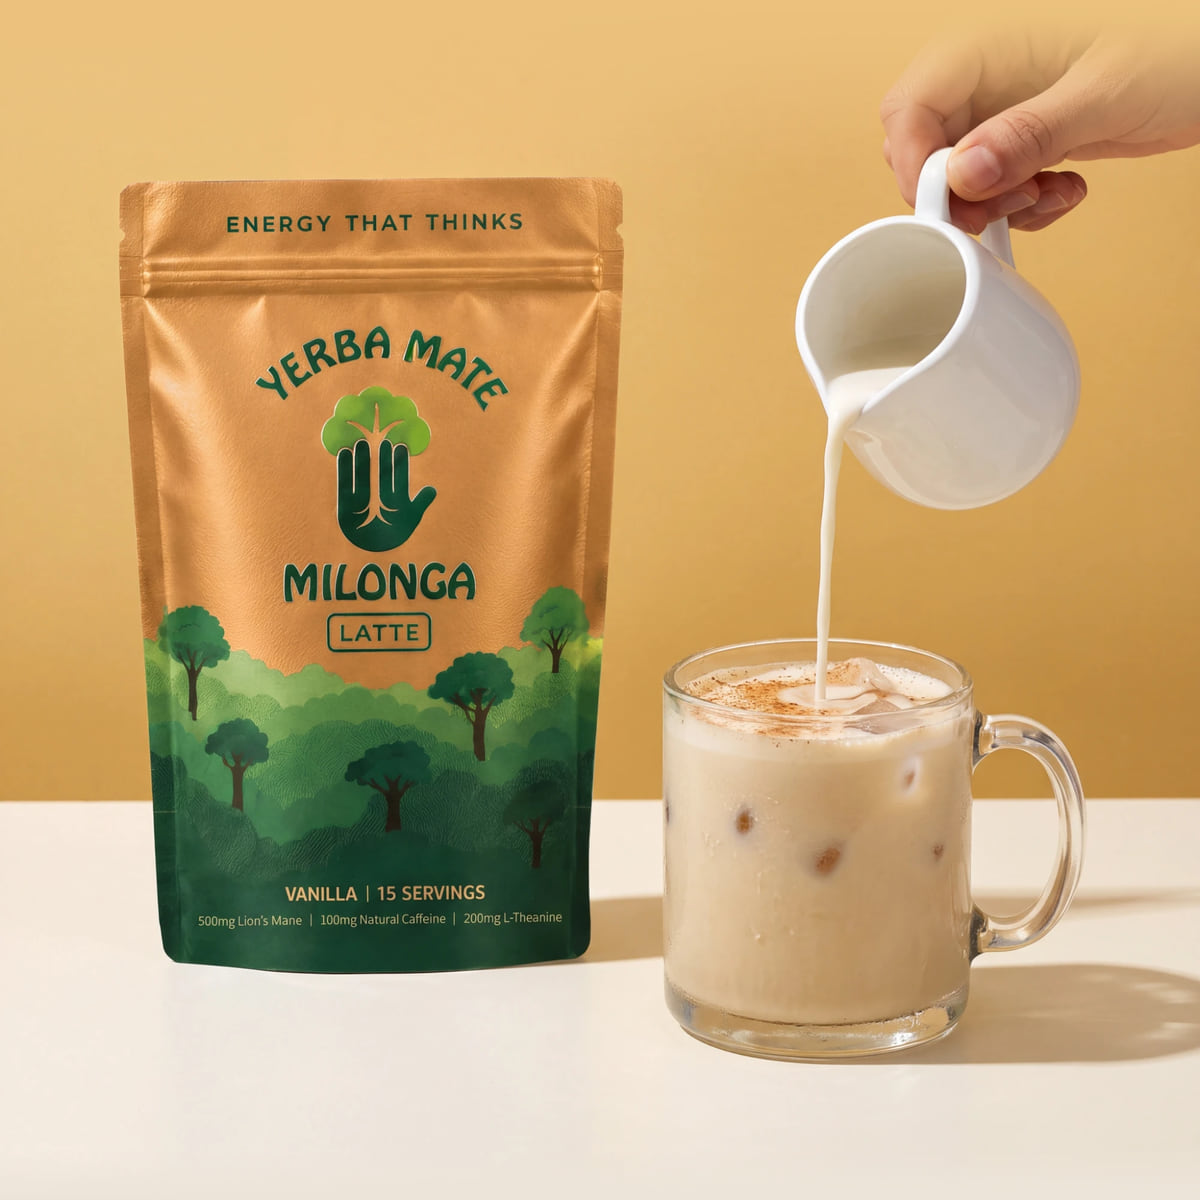
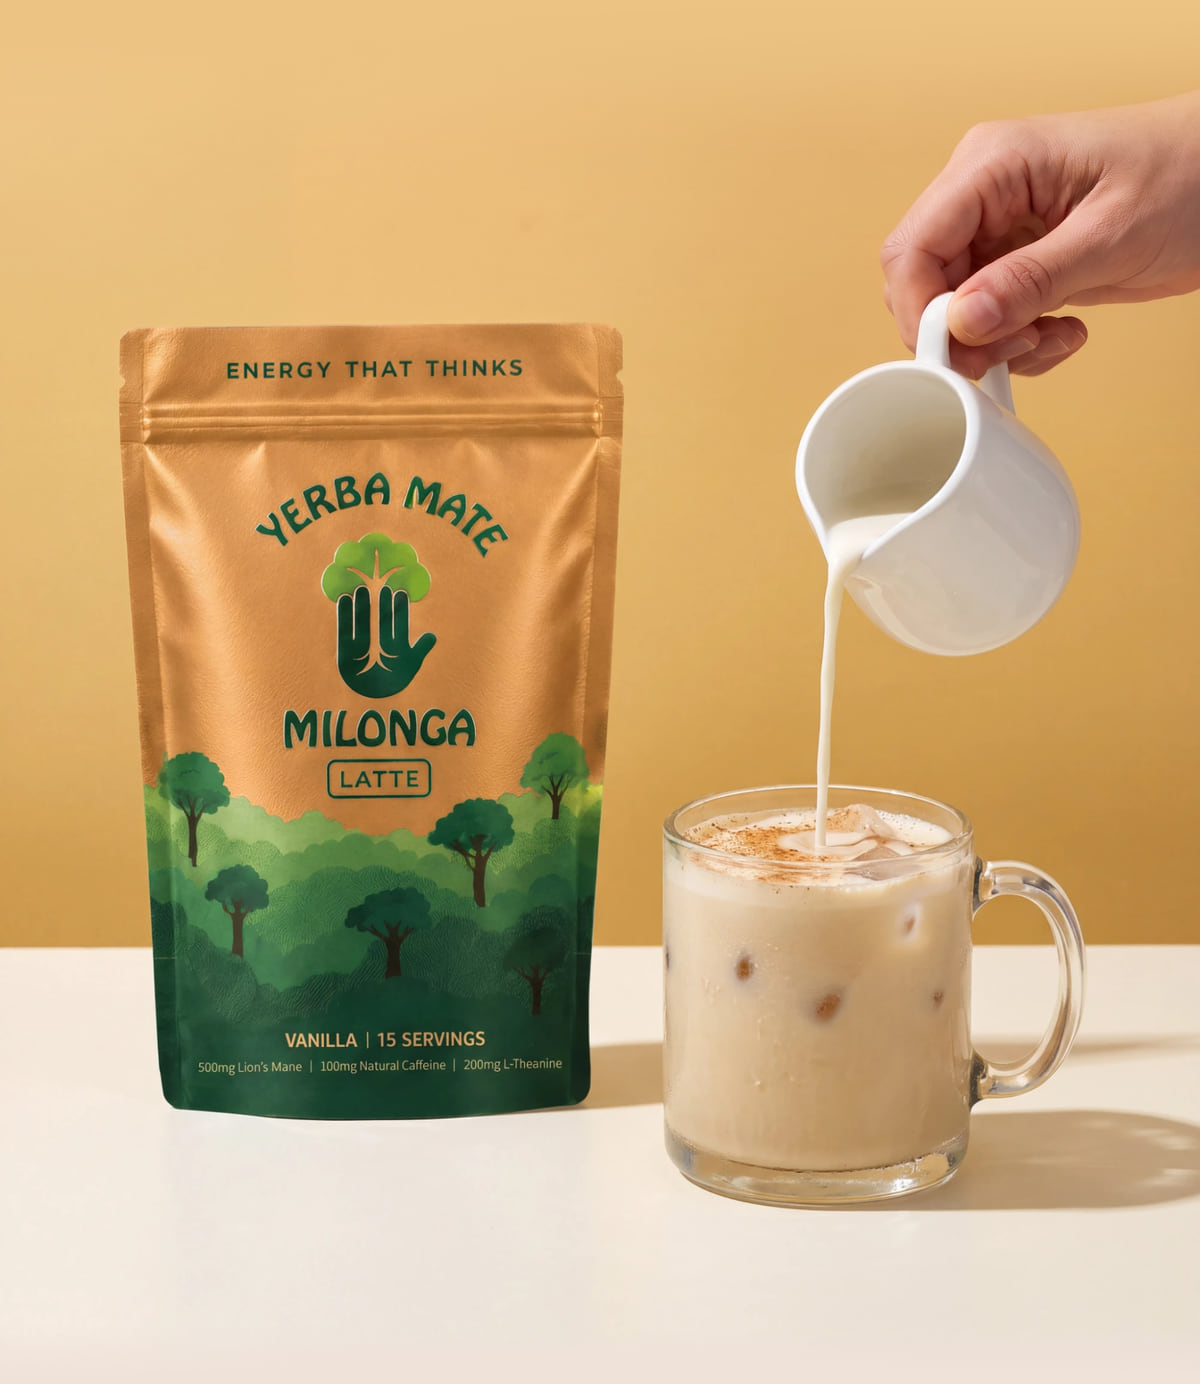
Cart E1: whole hand in the pour photo, one continuous gold section
The pour shot is outpainted upward so the full hand shows; the original photo is
pasted back over everything but the hand and jug so the pouch's print stays exact.

Claude-Session: https://claude.ai/code/session_01NhEtXPnfeCJfN73SqBkUZ5

diff --git a/email-ds/refine/cart-e1.html b/email-ds/refine/cart-e1.html
@@ -64,8 +64,8 @@ body{margin:0;background:#FFFFFF;padding:28px 0 60px}
     .bg-page { background-color:#F0EFDF !important; }
     .bg-hero-top { background-color:#F6DCAF !important; }
     .bg-hero { background-color:#D5A262 !important; }
-    .bg-wall { background-color:#EBC17D !important; }
-    .bg-table { background-color:#EDE4D9 !important; }
+    .bg-wall { background-color:#ECC383 !important; }
+    .bg-table { background-color:#EEE2D9 !important; }
   }
 </style>
 <table role="presentation" width="100%" cellpadding="0" cellspacing="0" border="0" bgcolor="#FFFFFF" class="bg-white" style="background-color:#FFFFFF;">
@@ -146,8 +146,8 @@ body{margin:0;background:#FFFFFF;padding:28px 0 60px}
     .bg-page { background-color:#F0EFDF !important; }
     .bg-hero-top { background-color:#F6DCAF !important; }
     .bg-hero { background-color:#D5A262 !important; }
-    .bg-wall { background-color:#EBC17D !important; }
-    .bg-table { background-color:#EDE4D9 !important; }
+    .bg-wall { background-color:#ECC383 !important; }
+    .bg-table { background-color:#EEE2D9 !important; }
   }
 </style>
 <table role="presentation" width="100%" cellpadding="0" cellspacing="0" border="0" bgcolor="#FFFFFF" class="bg-white" style="background-color:#FFFFFF;">
@@ -215,12 +215,12 @@ body{margin:0;background:#FFFFFF;padding:28px 0 60px}
 <!-- ── 3 · ONE CUP, EVERYTHING YOU NEED · v2 (Bernat, 2026-11-18): the title and the benefits ABOVE the hand
      pouring the milk and the bag, on the photo's own gold wall so text and photo read as one section
      (beige ingredient discs, which show on gold); the photo's table fades into the cream below ── -->
-<tr><td class="pad bg-wall" align="center" bgcolor="#EBC17D" style="background-color:#EBC17D;padding:52px 40px 30px;font-family:'Montserrat','Helvetica Neue',Helvetica,Arial,sans-serif;">
+<tr><td class="pad bg-wall" align="center" bgcolor="#ECC383" style="background-color:#ECC383;padding:52px 40px 30px;font-family:'Montserrat','Helvetica Neue',Helvetica,Arial,sans-serif;">
 <div style="font-size:12px;line-height:16px;font-weight:700;letter-spacing:3px;text-transform:uppercase;color:#004D27;">Why it&rsquo;s worth coming back for</div>
 <div class="h-sec" style="padding-top:12px;font-family:'Times New Roman',Times,Georgia,serif;font-size:40px;line-height:44px;font-weight:400;color:#004D27;">One cup,</div>
 <div class="h-sec" style="font-family:'Times New Roman',Times,Georgia,serif;font-size:40px;line-height:44px;font-weight:700;font-style:italic;color:#004D27;">everything you need.</div>
 </td></tr>
-<tr><td class="pad-photo bg-wall" bgcolor="#EBC17D" style="background-color:#EBC17D;padding:0 30px 0;">
+<tr><td class="pad-photo bg-wall" bgcolor="#ECC383" style="background-color:#ECC383;padding:0 30px 0;">
 <table role="presentation" width="100%" cellpadding="0" cellspacing="0" border="0"><tr>
 <td class="edge" width="33%" align="center" valign="top" style="width:33%;padding:0 8px;font-family:'Montserrat','Helvetica Neue',Helvetica,Arial,sans-serif;">
 <img class="edge-disc" src="../exports/klaviyo/ml101/img/disc-beige-yerba-mate.png" width="56" height="56" alt="" role="presentation" style="display:block;margin:0 auto;width:56px;height:56px;border:0;">
@@ -242,15 +242,15 @@ body{margin:0;background:#FFFFFF;padding:28px 0 60px}
 </td>
 </tr></table>
 </td></tr>
-<tr><td class="pad bg-wall" align="center" bgcolor="#EBC17D" style="background-color:#EBC17D;padding:26px 40px 36px;font-family:'Montserrat','Helvetica Neue',Helvetica,Arial,sans-serif;">
+<tr><td class="pad bg-wall" align="center" bgcolor="#ECC383" style="background-color:#ECC383;padding:26px 40px 36px;font-family:'Montserrat','Helvetica Neue',Helvetica,Arial,sans-serif;">
 <div style="font-size:14px;line-height:21px;font-weight:500;color:#12331F;">Plus yerba mate&rsquo;s antioxidants and vitamins, which support a healthy gut, your immune system and your metabolism. <strong style="font-weight:700;color:#004D27;"><span style="white-space:nowrap;">Ready in 30 seconds,</span> <span style="white-space:nowrap;">hot or iced.</span></strong></div>
 </td></tr>
-<tr><td class="bg-wall" bgcolor="#EBC17D" style="background-color:#EBC17D;padding:0;font-size:0;line-height:0;"><img class="full" src="../exports/klaviyo/cart-e1/img/final.jpg" width="600" height="600" alt="Milk pouring into an iced Mate Latte beside the pouch" style="display:block;width:600px;height:600px;border:0;"></td></tr>
-<tr><td class="pad bg-table" align="center" bgcolor="#EDE4D9" style="background-color:#EDE4D9;padding:12px 40px 12px;font-family:'Montserrat','Helvetica Neue',Helvetica,Arial,sans-serif;">
+<tr><td class="bg-wall" bgcolor="#ECC383" style="background-color:#ECC383;padding:0;font-size:0;line-height:0;"><img class="full" src="../exports/klaviyo/cart-e1/img/final.jpg" width="600" height="692" alt="Milk pouring into an iced Mate Latte beside the pouch" style="display:block;width:600px;height:692px;border:0;"></td></tr>
+<tr><td class="pad bg-table" align="center" bgcolor="#EEE2D9" style="background-color:#EEE2D9;padding:12px 40px 12px;font-family:'Montserrat','Helvetica Neue',Helvetica,Arial,sans-serif;">
 <div class="h-sec" style="padding-top:0px;font-family:'Times New Roman',Times,Georgia,serif;font-size:34px;line-height:38px;font-weight:400;color:#004D27;">Your cart&rsquo;s all set.</div>
 <div class="h-sec" style="font-family:'Times New Roman',Times,Georgia,serif;font-size:34px;line-height:38px;font-weight:700;font-style:italic;color:#004D27;">Ready when you are.</div>
 </td></tr>
-<tr><td class="pad-photo bg-table" bgcolor="#EDE4D9" style="background-color:#EDE4D9;padding:6px 30px 4px;">
+<tr><td class="pad-photo bg-table" bgcolor="#EEE2D9" style="background-color:#EEE2D9;padding:6px 30px 4px;">
 <table role="presentation" width="100%" cellpadding="0" cellspacing="0" border="0" bgcolor="#FFFFFF" style="border-collapse:separate;table-layout:fixed;background-color:#FFFFFF;border-radius:18px;"><tr>
 <td class="cart-img" width="88" valign="middle" style="width:88px;padding:14px 0 14px 16px;"><a href="{{ event.extra.checkout_url|default:'https://milonga.life/cart' }}" target="_blank"><img src="https://cdn.shopify.com/s/files/1/0841/2699/0646/files/BEST_VALUE_3_4K.jpg?v=1794415323&width=240" width="72" height="72" alt="Your Mate Latte" style="display:block;width:72px;height:72px;border:0;border-radius:10px;object-fit:contain;"></a></td>
 <td valign="middle" style="padding:14px 10px 14px 14px;font-family:'Montserrat','Helvetica Neue',Helvetica,Arial,sans-serif;word-break:break-word;overflow-wrap:anywhere;">
@@ -313,8 +313,8 @@ body{margin:0;background:#FFFFFF;padding:28px 0 60px}
     .bg-page { background-color:#F0EFDF !important; }
     .bg-hero-top { background-color:#F6DCAF !important; }
     .bg-hero { background-color:#D5A262 !important; }
-    .bg-wall { background-color:#EBC17D !important; }
-    .bg-table { background-color:#EDE4D9 !important; }
+    .bg-wall { background-color:#ECC383 !important; }
+    .bg-table { background-color:#EEE2D9 !important; }
   }
 </style>
 <table role="presentation" width="100%" cellpadding="0" cellspacing="0" border="0" bgcolor="#FFFFFF" class="bg-white" style="background-color:#FFFFFF;">
@@ -322,7 +322,7 @@ body{margin:0;background:#FFFFFF;padding:28px 0 60px}
 <table role="presentation" class="wrap" width="600" cellpadding="0" cellspacing="0" border="0" style="width:600px;max-width:600px;table-layout:fixed;">
 
 <!-- ── 3 (continued) · the closing button, on the same cream as cart 2 above ── -->
-<tr><td class="pad bg-table" align="center" bgcolor="#EDE4D9" style="background-color:#EDE4D9;padding:14px 40px 0;font-family:'Montserrat','Helvetica Neue',Helvetica,Arial,sans-serif;">
+<tr><td class="pad bg-table" align="center" bgcolor="#EEE2D9" style="background-color:#EEE2D9;padding:14px 40px 0;font-family:'Montserrat','Helvetica Neue',Helvetica,Arial,sans-serif;">
 <!--[if mso]>
 <v:roundrect xmlns:v="urn:schemas-microsoft-com:vml" xmlns:w="urn:schemas-microsoft-com:office:word" href="{{ event.extra.checkout_url|default:'https://milonga.life/cart' }}" style="height:56px;v-text-anchor:middle;width:320px;" arcsize="50%" stroke="f" fillcolor="#004D27"><w:anchorlock/><center style="color:#F0EFDF;font-family:Arial,sans-serif;font-size:16px;font-weight:bold;letter-spacing:2px;">Complete my order</center></v:roundrect>
 <![endif]--><!--[if !mso]><!-- --><a href="{{ event.extra.checkout_url|default:'https://milonga.life/cart' }}" target="_blank" class="btn" style="display:inline-block;background-color:#004D27;border-radius:999px;padding:20px 40px;font-family:'Montserrat','Helvetica Neue',Helvetica,Arial,sans-serif;font-size:16px;line-height:16px;font-weight:700;letter-spacing:2px;text-transform:uppercase;white-space:nowrap;color:#F0EFDF;text-decoration:none;box-shadow:0 4px 0 #00351B;">Complete my order</a><!--<![endif]-->
@@ -330,7 +330,7 @@ body{margin:0;background:#FFFFFF;padding:28px 0 60px}
 </td></tr>
 
 <!-- ── FOOTER ─────────────────────────────────────────────────────── -->
-<tr><td class="bg-table" align="center" bgcolor="#EDE4D9" style="background-color:#EDE4D9;padding:48px 30px 40px;font-family:'Montserrat','Helvetica Neue',Helvetica,Arial,sans-serif;color:#004D27;">
+<tr><td class="bg-table" align="center" bgcolor="#EEE2D9" style="background-color:#EEE2D9;padding:48px 30px 40px;font-family:'Montserrat','Helvetica Neue',Helvetica,Arial,sans-serif;color:#004D27;">
 <a href="https://milonga.life/?utm_source=klaviyo&amp;utm_medium=email&amp;utm_campaign=cart_abandon_mate_latte&amp;utm_content=c1_logo" target="_blank"><img src="../public/logo/mark-green.png" width="61" height="64" alt="Milonga" style="display:block;margin:0 auto;height:64px;width:auto;border:0;"></a>
 <div style="padding-top:18px;font-size:14px;font-weight:700;letter-spacing:2px;text-transform:uppercase;"><a href="https://milonga.life/?utm_source=klaviyo&amp;utm_medium=email&amp;utm_campaign=cart_abandon_mate_latte&amp;utm_content=c1_logo" target="_blank" style="color:#004D27;text-decoration:none;">milonga.life</a></div>
 <table role="presentation" cellpadding="0" cellspacing="0" border="0" align="center" style="margin:18px auto 0;border-collapse:separate;"><tr><td class="unsub-pill" align="center" style="border:1.5px solid #004D27;border-radius:999px;padding:10px 24px;font-family:'Montserrat','Helvetica Neue',Helvetica,Arial,sans-serif;font-size:11px;font-weight:700;letter-spacing:2px;text-transform:uppercase;color:#004D27;">{% unsubscribe 'Unsubscribe' %}</td></tr></table>

diff --git a/email-ds/exports/klaviyo/cart-e1/cart-e1.html b/email-ds/exports/klaviyo/cart-e1/cart-e1.html
@@ -49,8 +49,8 @@
     .bg-page { background-color:#F0EFDF !important; }
     .bg-hero-top { background-color:#F6DCAF !important; }
     .bg-hero { background-color:#D5A262 !important; }
-    .bg-wall { background-color:#EBC17D !important; }
-    .bg-table { background-color:#EDE4D9 !important; }
+    .bg-wall { background-color:#ECC383 !important; }
+    .bg-table { background-color:#EEE2D9 !important; }
   }
 </style>
 </head>
@@ -162,12 +162,12 @@
 <!-- ── 3 · ONE CUP, EVERYTHING YOU NEED · v2 (Bernat, 2026-11-18): the title and the benefits ABOVE the hand
      pouring the milk and the bag, on the photo's own gold wall so text and photo read as one section
      (beige ingredient discs, which show on gold); the photo's table fades into the cream below ── -->
-<tr><td class="pad bg-wall" align="center" bgcolor="#EBC17D" style="background-color:#EBC17D;padding:52px 40px 30px;font-family:'Montserrat','Helvetica Neue',Helvetica,Arial,sans-serif;">
+<tr><td class="pad bg-wall" align="center" bgcolor="#ECC383" style="background-color:#ECC383;padding:52px 40px 30px;font-family:'Montserrat','Helvetica Neue',Helvetica,Arial,sans-serif;">
 <div style="font-size:12px;line-height:16px;font-weight:700;letter-spacing:3px;text-transform:uppercase;color:#004D27;">Why it&rsquo;s worth coming back for</div>
 <div class="h-sec" style="padding-top:12px;font-family:'Times New Roman',Times,Georgia,serif;font-size:40px;line-height:44px;font-weight:400;color:#004D27;">One cup,</div>
 <div class="h-sec" style="font-family:'Times New Roman',Times,Georgia,serif;font-size:40px;line-height:44px;font-weight:700;font-style:italic;color:#004D27;">everything you need.</div>
 </td></tr>
-<tr><td class="pad-photo bg-wall" bgcolor="#EBC17D" style="background-color:#EBC17D;padding:0 30px 0;">
+<tr><td class="pad-photo bg-wall" bgcolor="#ECC383" style="background-color:#ECC383;padding:0 30px 0;">
 <table role="presentation" width="100%" cellpadding="0" cellspacing="0" border="0"><tr>
 <td class="edge" width="33%" align="center" valign="top" style="width:33%;padding:0 8px;font-family:'Montserrat','Helvetica Neue',Helvetica,Arial,sans-serif;">
 <img class="edge-disc" src="https://cdn.klaviyomail.com/company/TwvSnK/images/8946052a-344d-4b12-a683-baa644589a0b.png" width="56" height="56" alt="" role="presentation" style="display:block;margin:0 auto;width:56px;height:56px;border:0;">
@@ -189,15 +189,15 @@
 </td>
 </tr></table>
 </td></tr>
-<tr><td class="pad bg-wall" align="center" bgcolor="#EBC17D" style="background-color:#EBC17D;padding:26px 40px 36px;font-family:'Montserrat','Helvetica Neue',Helvetica,Arial,sans-serif;">
+<tr><td class="pad bg-wall" align="center" bgcolor="#ECC383" style="background-color:#ECC383;padding:26px 40px 36px;font-family:'Montserrat','Helvetica Neue',Helvetica,Arial,sans-serif;">
 <div style="font-size:14px;line-height:21px;font-weight:500;color:#12331F;">Plus yerba mate&rsquo;s antioxidants and vitamins, which support a healthy gut, your immune system and your metabolism. <strong style="font-weight:700;color:#004D27;"><span style="white-space:nowrap;">Ready in 30 seconds,</span> <span style="white-space:nowrap;">hot or iced.</span></strong></div>
 </td></tr>
-<tr><td class="bg-wall" bgcolor="#EBC17D" style="background-color:#EBC17D;padding:0;font-size:0;line-height:0;"><img class="full" src="https://cdn.klaviyomail.com/company/TwvSnK/images/18b23a6d-ec72-4dbe-b150-082f4f924653.jpeg" width="600" height="600" alt="Milk pouring into an iced Mate Latte beside the pouch" style="display:block;width:600px;height:600px;border:0;"></td></tr>
-<tr><td class="pad bg-table" align="center" bgcolor="#EDE4D9" style="background-color:#EDE4D9;padding:12px 40px 12px;font-family:'Montserrat','Helvetica Neue',Helvetica,Arial,sans-serif;">
+<tr><td class="bg-wall" bgcolor="#ECC383" style="background-color:#ECC383;padding:0;font-size:0;line-height:0;"><img class="full" src="https://cdn.klaviyomail.com/company/TwvSnK/images/18b23a6d-ec72-4dbe-b150-082f4f924653.jpeg" width="600" height="692" alt="Milk pouring into an iced Mate Latte beside the pouch" style="display:block;width:600px;height:692px;border:0;"></td></tr>
+<tr><td class="pad bg-table" align="center" bgcolor="#EEE2D9" style="background-color:#EEE2D9;padding:12px 40px 12px;font-family:'Montserrat','Helvetica Neue',Helvetica,Arial,sans-serif;">
 <div class="h-sec" style="padding-top:0px;font-family:'Times New Roman',Times,Georgia,serif;font-size:34px;line-height:38px;font-weight:400;color:#004D27;">Your cart&rsquo;s all set.</div>
 <div class="h-sec" style="font-family:'Times New Roman',Times,Georgia,serif;font-size:34px;line-height:38px;font-weight:700;font-style:italic;color:#004D27;">Ready when you are.</div>
 </td></tr>
-<tr><td class="pad-photo bg-table" bgcolor="#EDE4D9" style="background-color:#EDE4D9;padding:6px 30px 4px;">
+<tr><td class="pad-photo bg-table" bgcolor="#EEE2D9" style="background-color:#EEE2D9;padding:6px 30px 4px;">
 <table role="presentation" width="100%" cellpadding="0" cellspacing="0" border="0" bgcolor="#FFFFFF" style="border-collapse:separate;table-layout:fixed;background-color:#FFFFFF;border-radius:18px;"><tr>
 <td class="cart-img" width="88" valign="middle" style="width:88px;padding:14px 0 14px 16px;"><a href="{{ event.extra.checkout_url|default:'https://milonga.life/cart' }}" target="_blank"><img src="{{ event.ImageURL|default:'https://cdn.shopify.com/s/files/1/0841/2699/0646/files/milonga-latte-pour-compressed.png?v=1793822693' }}&width=240" width="72" height="72" alt="Your Mate Latte" style="display:block;width:72px;height:72px;border:0;border-radius:10px;object-fit:contain;"></a></td>
 <td valign="middle" style="padding:14px 10px 14px 14px;font-family:'Montserrat','Helvetica Neue',Helvetica,Arial,sans-serif;word-break:break-word;overflow-wrap:anywhere;">
@@ -221,7 +221,7 @@
 <table role="presentation" class="wrap" width="600" cellpadding="0" cellspacing="0" border="0" style="width:600px;max-width:600px;table-layout:fixed;">
 
 <!-- ── 3 (continued) · the closing button, on the same cream as cart 2 above ── -->
-<tr><td class="pad bg-table" align="center" bgcolor="#EDE4D9" style="background-color:#EDE4D9;padding:14px 40px 0;font-family:'Montserrat','Helvetica Neue',Helvetica,Arial,sans-serif;">
+<tr><td class="pad bg-table" align="center" bgcolor="#EEE2D9" style="background-color:#EEE2D9;padding:14px 40px 0;font-family:'Montserrat','Helvetica Neue',Helvetica,Arial,sans-serif;">
 <!--[if mso]>
 <v:roundrect xmlns:v="urn:schemas-microsoft-com:vml" xmlns:w="urn:schemas-microsoft-com:office:word" href="{{ event.extra.checkout_url|default:'https://milonga.life/cart' }}" style="height:56px;v-text-anchor:middle;width:320px;" arcsize="50%" stroke="f" fillcolor="#004D27"><w:anchorlock/><center style="color:#F0EFDF;font-family:Arial,sans-serif;font-size:16px;font-weight:bold;letter-spacing:2px;">Complete my order</center></v:roundrect>
 <![endif]--><!--[if !mso]><!-- --><a href="{{ event.extra.checkout_url|default:'https://milonga.life/cart' }}" target="_blank" class="btn" style="display:inline-block;background-color:#004D27;border-radius:999px;padding:20px 40px;font-family:'Montserrat','Helvetica Neue',Helvetica,Arial,sans-serif;font-size:16px;line-height:16px;font-weight:700;letter-spacing:2px;text-transform:uppercase;white-space:nowrap;color:#F0EFDF;text-decoration:none;box-shadow:0 4px 0 #00351B;">Complete my order</a><!--<![endif]-->
@@ -229,7 +229,7 @@
 </td></tr>
 
 <!-- ── FOOTER ─────────────────────────────────────────────────────── -->
-<tr><td class="bg-table" align="center" bgcolor="#EDE4D9" style="background-color:#EDE4D9;padding:48px 30px 40px;font-family:'Montserrat','Helvetica Neue',Helvetica,Arial,sans-serif;color:#004D27;">
+<tr><td class="bg-table" align="center" bgcolor="#EEE2D9" style="background-color:#EEE2D9;padding:48px 30px 40px;font-family:'Montserrat','Helvetica Neue',Helvetica,Arial,sans-serif;color:#004D27;">
 <a href="https://milonga.life/?utm_source=klaviyo&amp;utm_medium=email&amp;utm_campaign=cart_abandon_mate_latte&amp;utm_content=c1_logo" target="_blank"><img src="https://cdn.klaviyomail.com/company/TwvSnK/images/0e781634-6907-42f6-b101-3c2c15371a99.png" width="61" height="64" alt="Milonga" style="display:block;margin:0 auto;height:64px;width:auto;border:0;"></a>
 <div style="padding-top:18px;font-size:14px;font-weight:700;letter-spacing:2px;text-transform:uppercase;"><a href="https://milonga.life/?utm_source=klaviyo&amp;utm_medium=email&amp;utm_campaign=cart_abandon_mate_latte&amp;utm_content=c1_logo" target="_blank" style="color:#004D27;text-decoration:none;">milonga.life</a></div>
 <table role="presentation" cellpadding="0" cellspacing="0" border="0" align="center" style="margin:18px auto 0;border-collapse:separate;"><tr><td class="unsub-pill" align="center" style="border:1.5px solid #004D27;border-radius:999px;padding:10px 24px;font-family:'Montserrat','Helvetica Neue',Helvetica,Arial,sans-serif;font-size:11px;font-weight:700;letter-spacing:2px;text-transform:uppercase;color:#004D27;">{% unsubscribe 'Unsubscribe' %}</td></tr></table>
